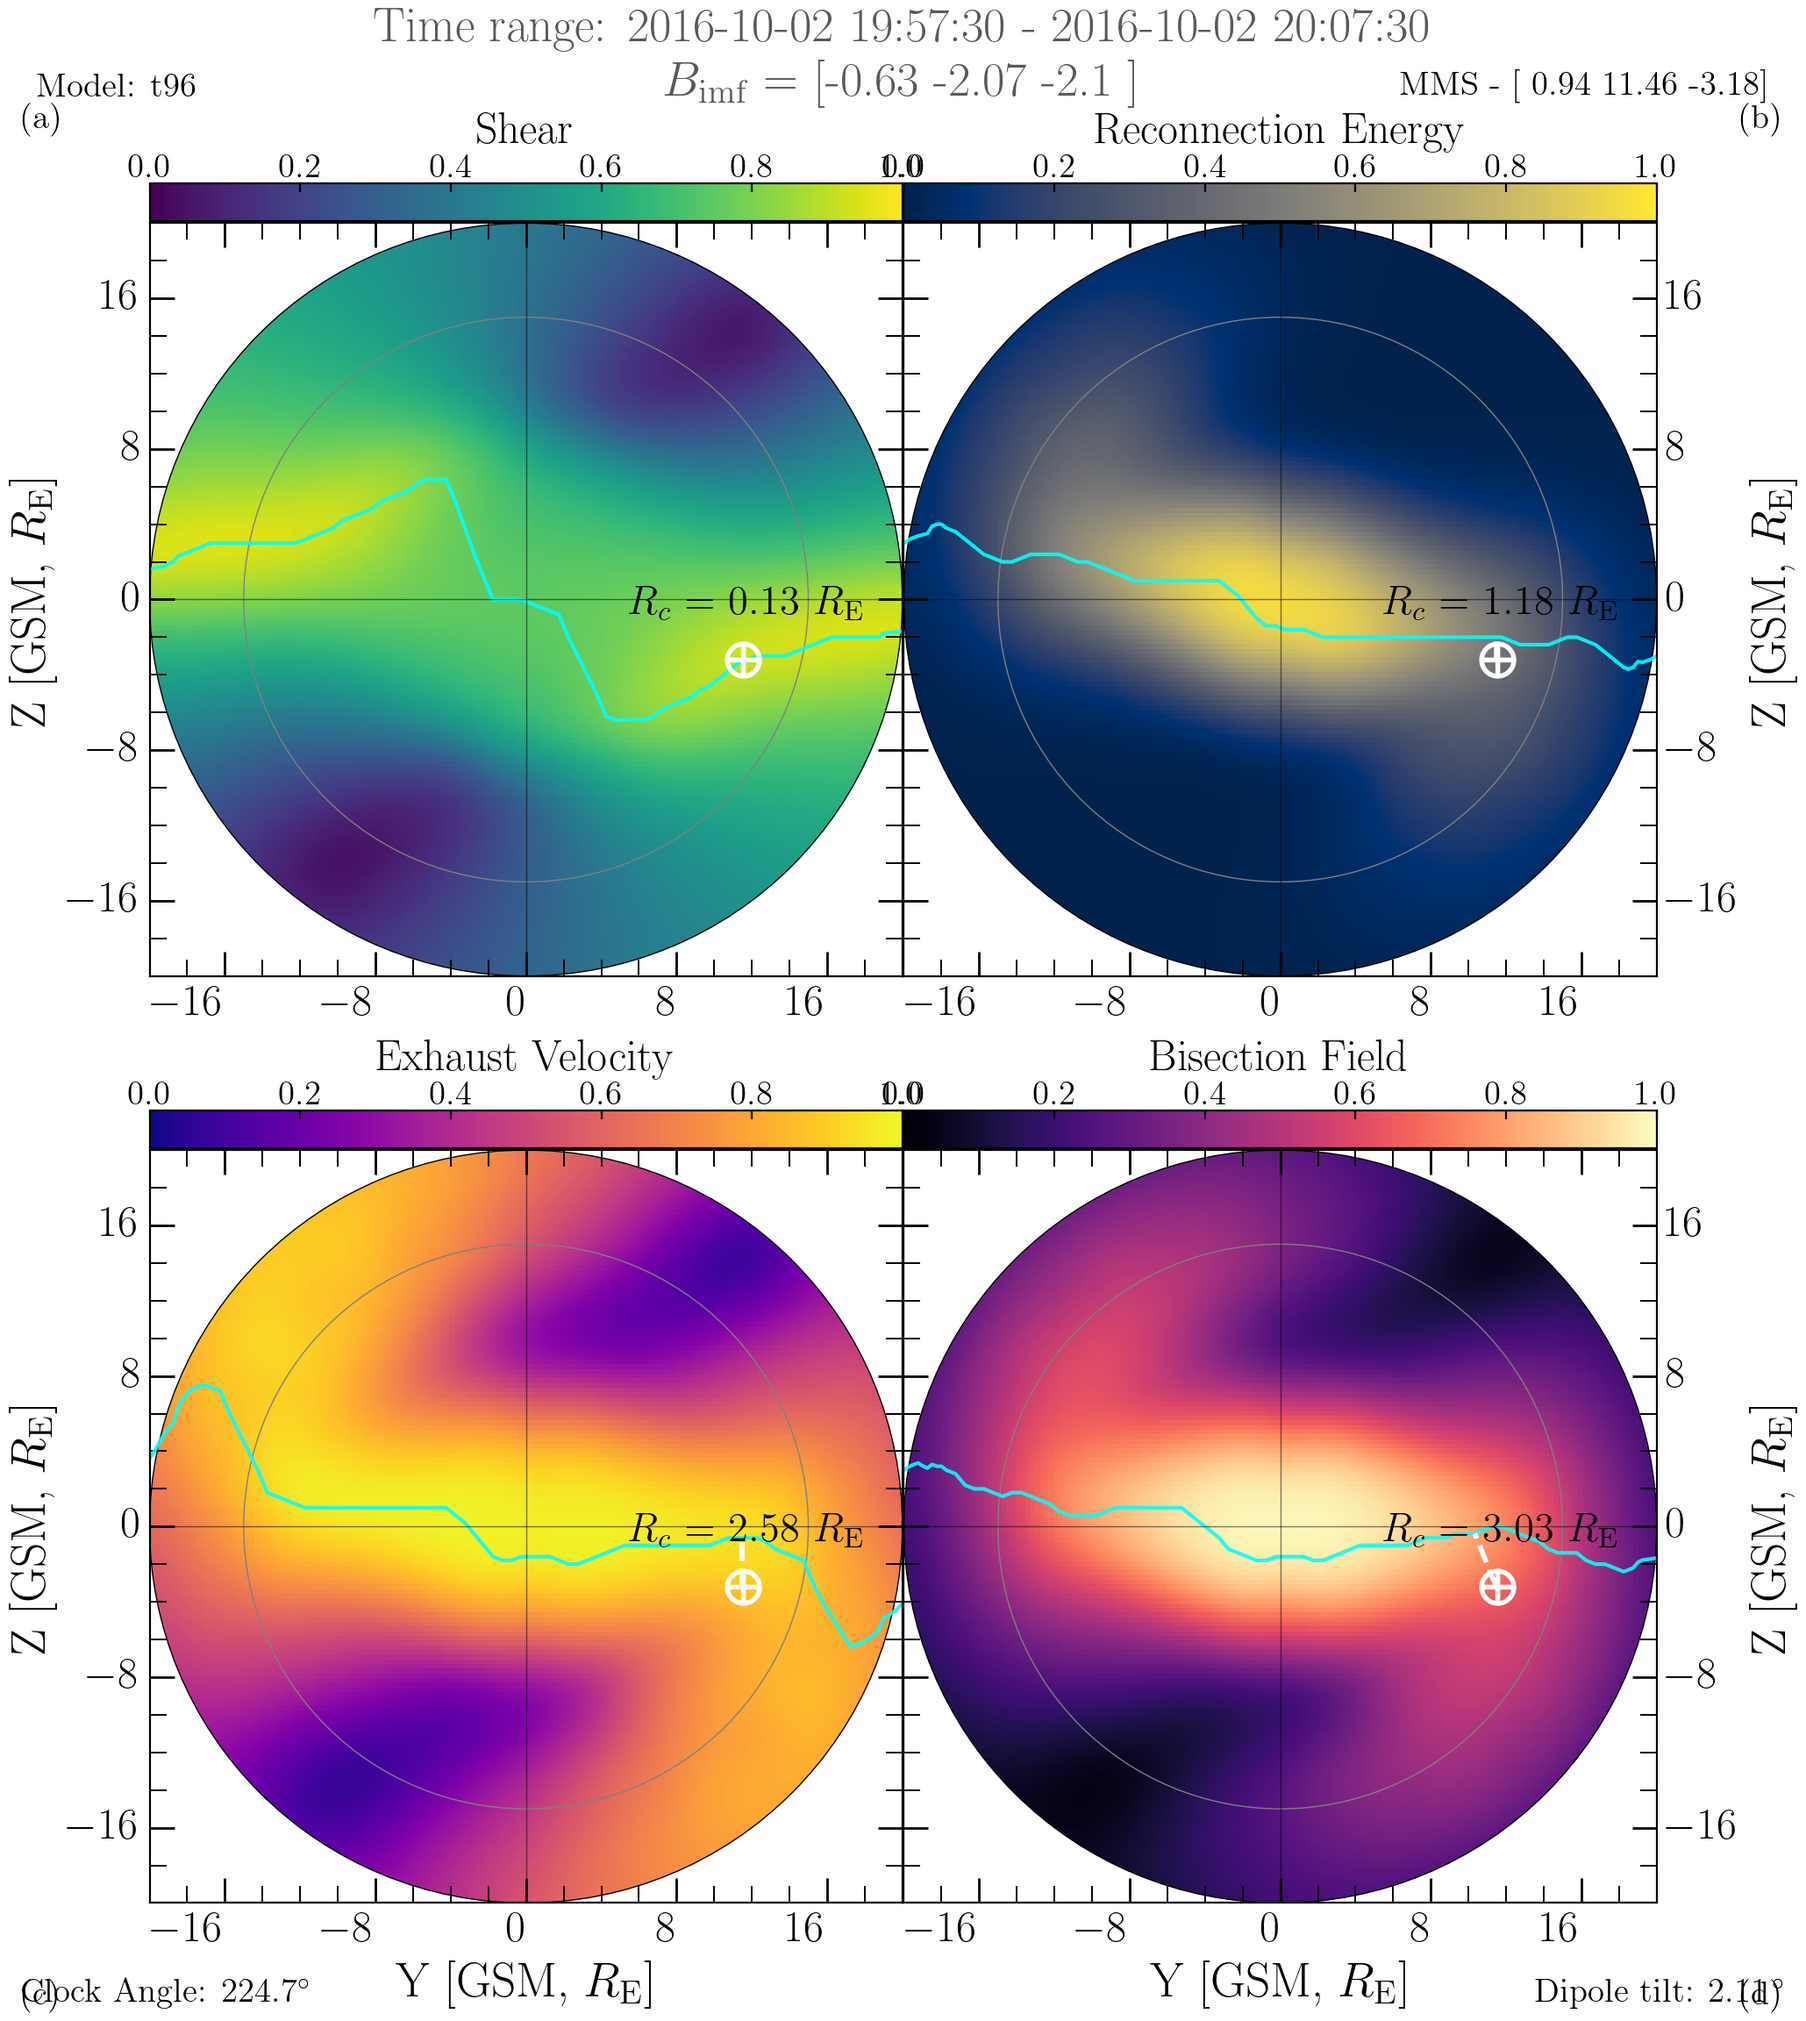
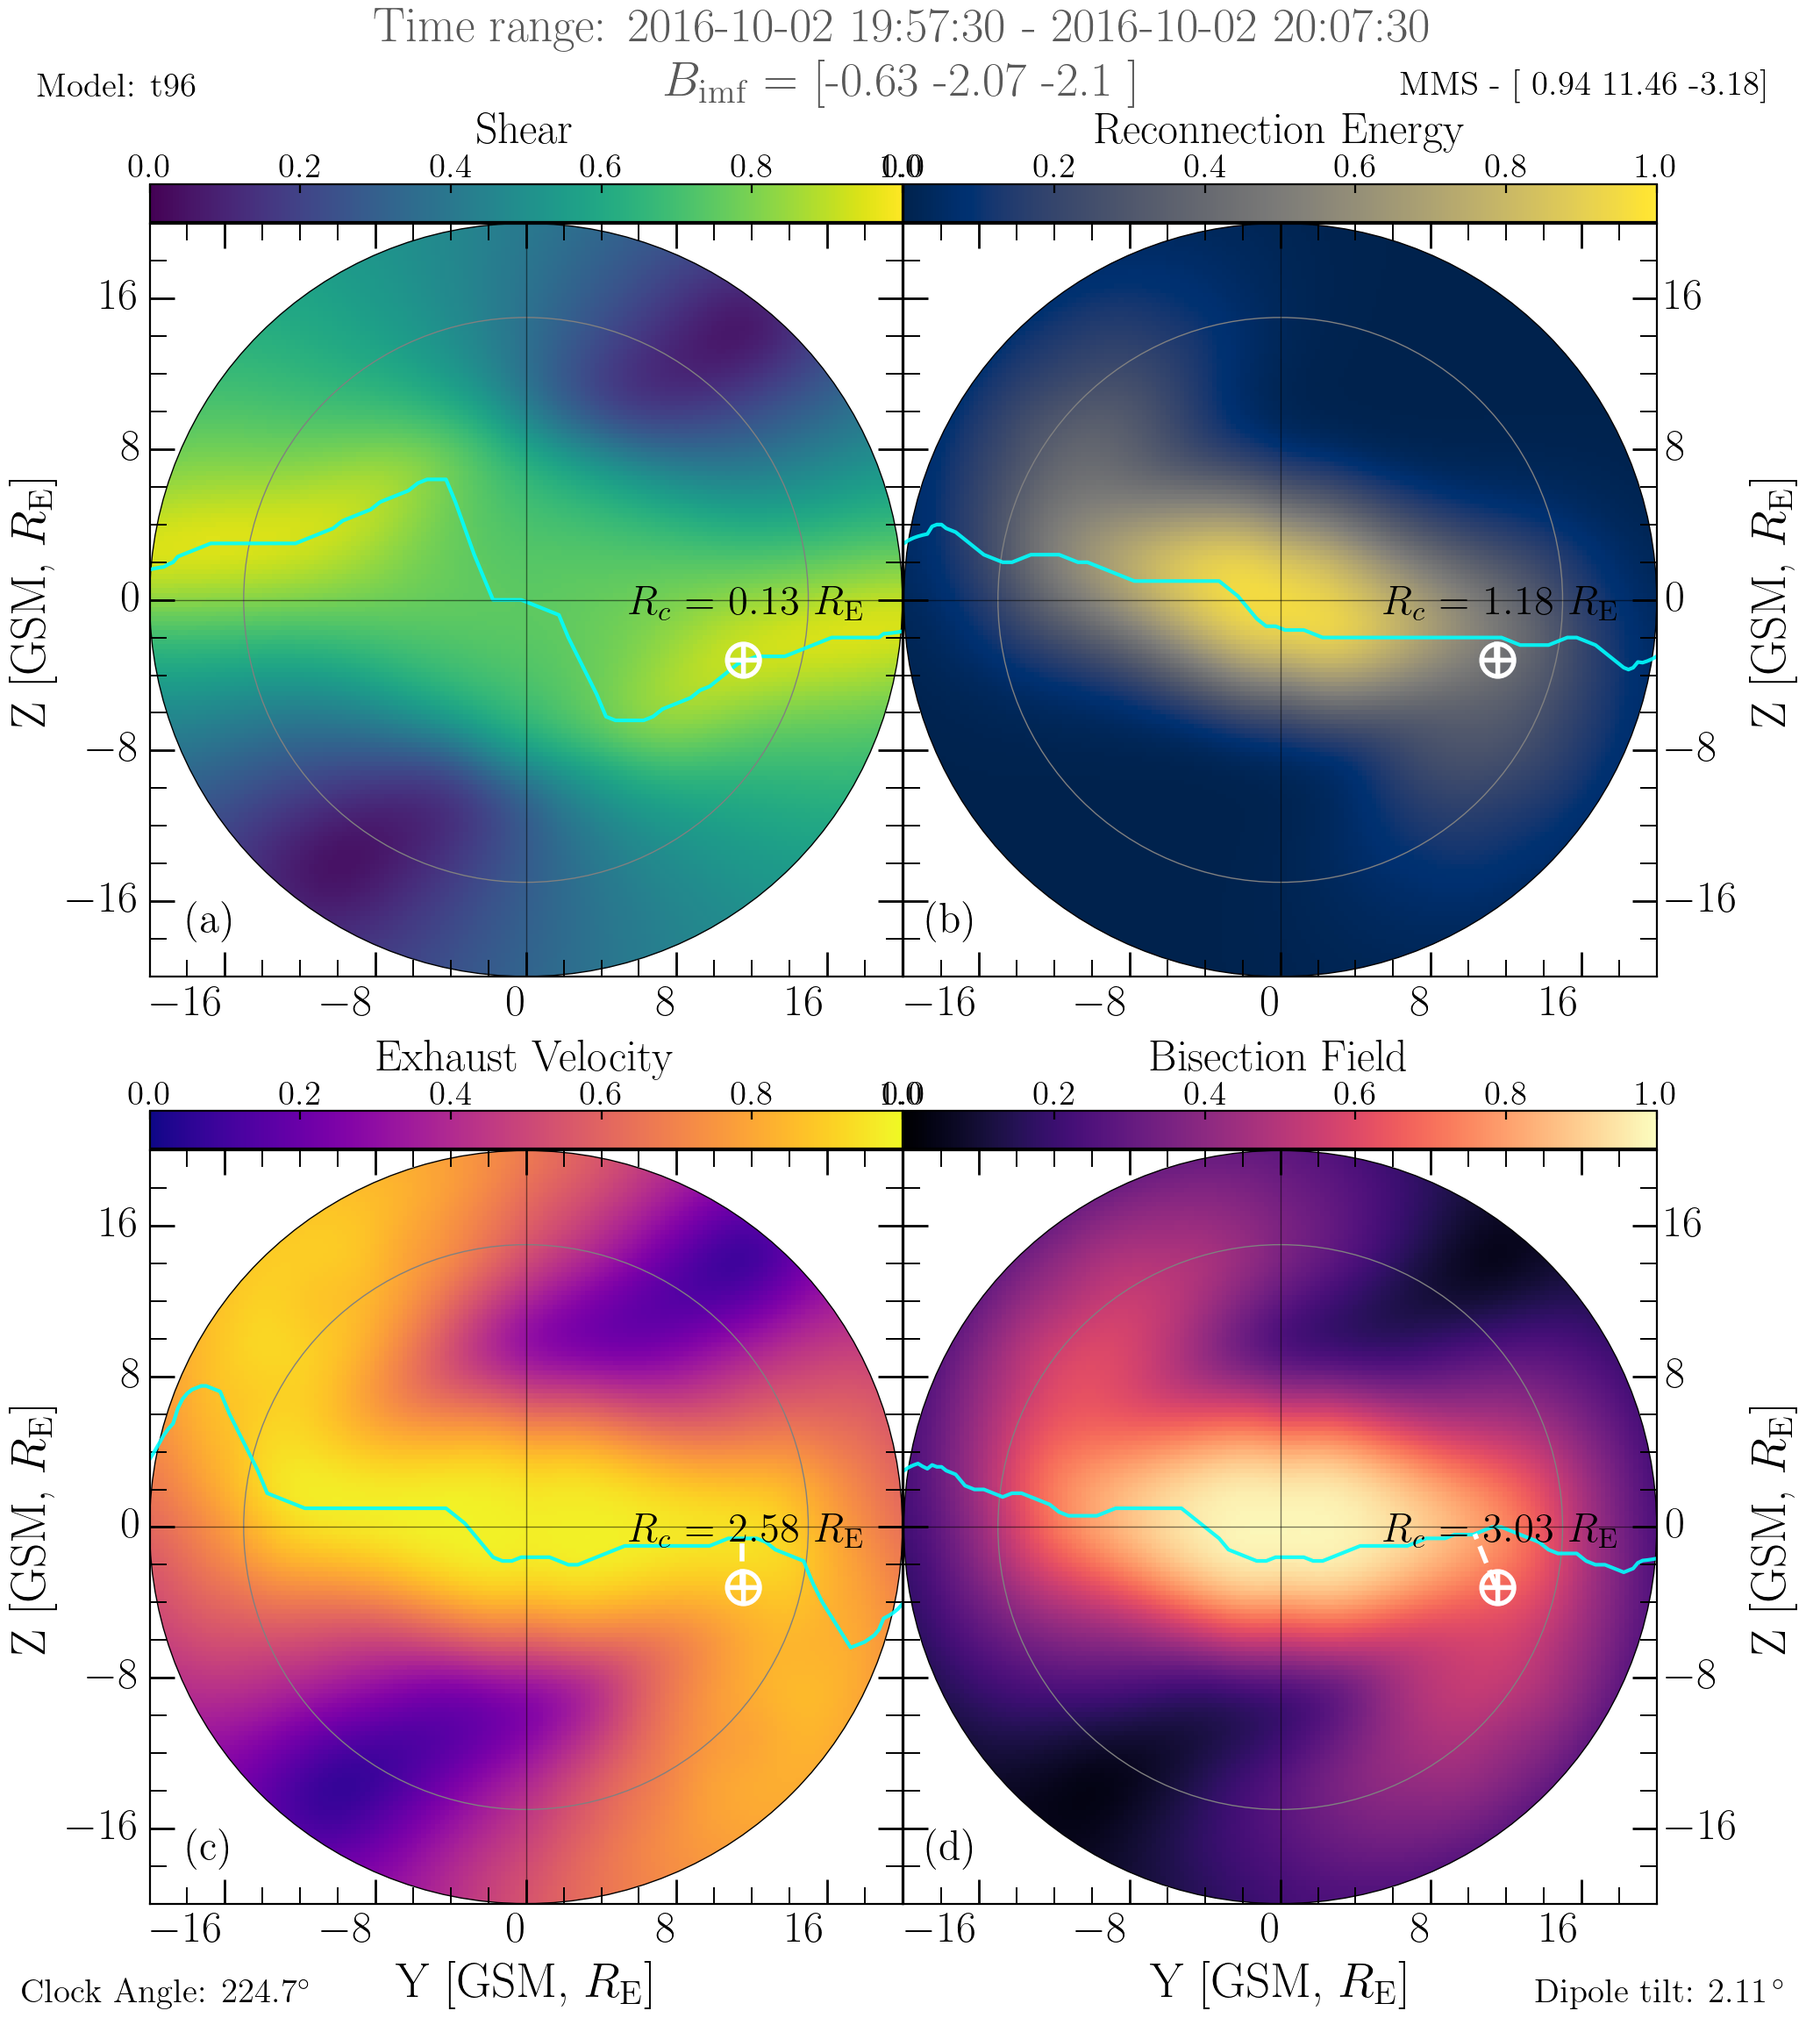
edited figures

diff --git a/codes/rx_model_funcs.py b/codes/rx_model_funcs.py
@@ -935,20 +935,24 @@ def ridge_finder_multiple(
                       bbox=box_style)
         if i == 0:
             # Add a label '(a)' to the plot to indicate the panel number
-            axs1.text(0.05, 0.05, '(a)', horizontalalignment='left', verticalalignment='top',
-                      transform=axs1.transAxes, rotation=0, color=text_color, fontsize=l_label_size)
+            axs1.text(0.05, 0.1, '(a)', horizontalalignment='left', verticalalignment='top',
+                      transform=axs1.transAxes, rotation=0, color=text_color,
+                      fontsize=1.2 * l_label_size)
         elif i == 1:
             # Add a label '(b)' to the plot to indicate the panel number
-            axs1.text(0.05, 0.05, '(b)', horizontalalignment='right', verticalalignment='top',
-                      transform=axs1.transAxes, rotation=0, color=text_color, fontsize=l_label_size)
+            axs1.text(0.1, 0.1, '(b)', horizontalalignment='right', verticalalignment='top',
+                      transform=axs1.transAxes, rotation=0, color=text_color,
+                      fontsize=1.2 * l_label_size)
         elif i == 2:
             # Add a label '(c)' to the plot to indicate the panel number
-            axs1.text(0.05, 0.05, '(c)', horizontalalignment='left', verticalalignment='top',
-                      transform=axs1.transAxes, rotation=0, color=text_color, fontsize=l_label_size)
+            axs1.text(0.05, 0.1, '(c)', horizontalalignment='left', verticalalignment='top',
+                      transform=axs1.transAxes, rotation=0, color=text_color,
+                      fontsize=1.2 * l_label_size)
         elif i == 3:
             # Add a label '(d)' to the plot to indicate the panel number
-            axs1.text(0.05, 0.05, '(d)', horizontalalignment='right', verticalalignment='top',
-                      transform=axs1.transAxes, rotation=0, color=text_color, fontsize=l_label_size)
+            axs1.text(0.1, 0.1, '(d)', horizontalalignment='right', verticalalignment='top',
+                      transform=axs1.transAxes, rotation=0, color=text_color,
+                      fontsize=1.2 * l_label_size)
 
 
             # Add a cicrle to indicate the status of walen relations.
